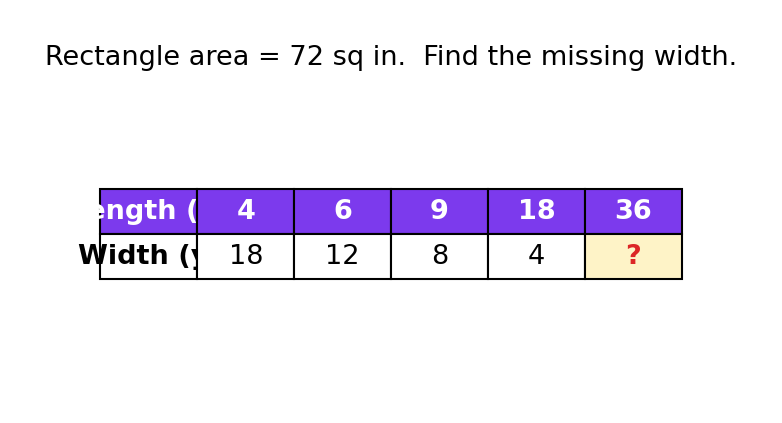
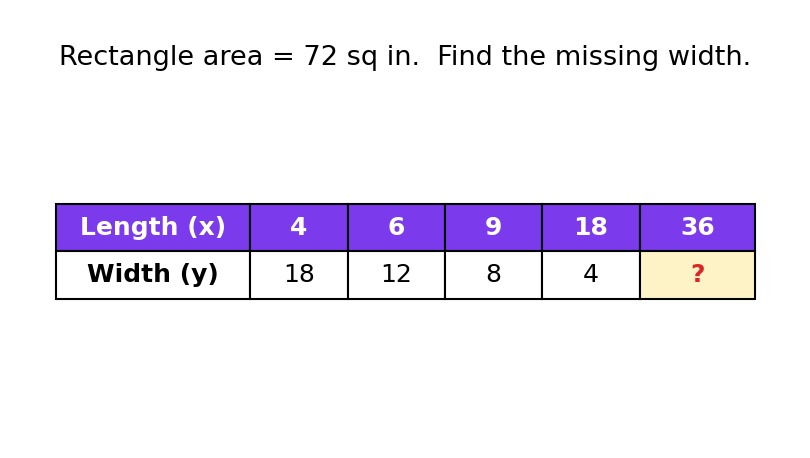
Use plain vocab terms as Blooket answers, fix Q1 table clipping
Answer options now use the actual terms (asymptote, inverse variation,
constant of variation, reciprocal function) instead of padded phrases.
Correct answer position is shuffled per question to prevent positional
gaming. Q1 table graphic regenerated with wider first column to fix
clipped "Length (x)" header.

Changed region(s): [[0.0614, 0.4303, 0.9514, 0.6761], [0.0614, 0.0922, 0.9514, 0.1844]]

diff --git a/generate_graphics.py b/generate_graphics.py
@@ -34,14 +34,19 @@ ORANGE = '#ea580c'
 
 # Q1: Inverse variation table — rectangle area 72
 def blooket_q1():
-    fig, ax = plt.subplots(figsize=(5, 2.5))
+    fig, ax = plt.subplots(figsize=(6.2, 2.8))
     ax.axis('off')
     data = [['Length (x)', '4', '6', '9', '18', '36'],
             ['Width (y)',  '18', '12', '8', '4', '?']]
-    tbl = ax.table(cellText=data, loc='center', cellLoc='center')
+    tbl = ax.table(
+        cellText=data,
+        loc='center',
+        cellLoc='center',
+        colWidths=[0.27, 0.135, 0.135, 0.135, 0.135, 0.16],
+    )
     tbl.auto_set_font_size(False)
-    tbl.set_fontsize(13)
-    tbl.scale(1, 1.8)
+    tbl.set_fontsize(12)
+    tbl.scale(1, 1.9)
     for (r,c), cell in tbl.get_celld().items():
         if r == 0:
             cell.set_facecolor(PURPLE)
